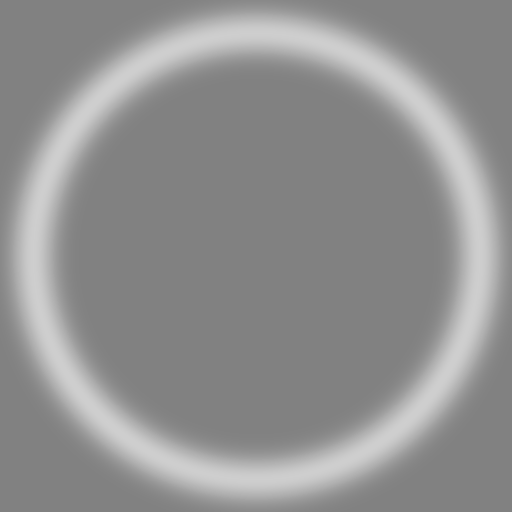
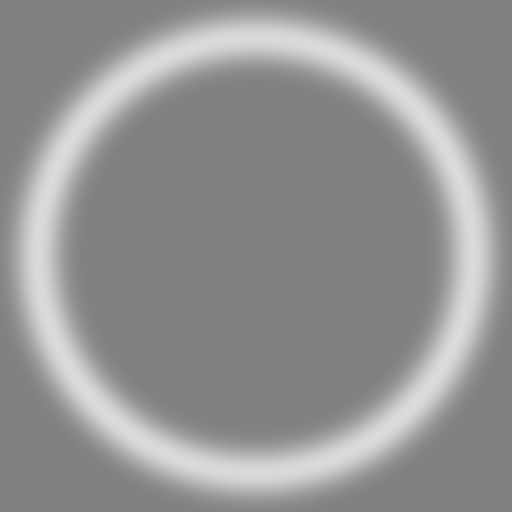
Улучшение волн + подключение ПО NeuroPlay

Changed region(s): [[0.0938, 0.0938, 0.9375, 0.9375]]

diff --git a/js/lib/neuroplay-1.0.0.js b/js/lib/neuroplay-1.0.0.js
@@ -1,0 +1,155 @@
+function cons(line) {
+  //console.log(line)
+}
+
+
+const Meditation = 0;
+const MeditationHistory = 1;
+const Concentration = 2;
+const ConcentrationHistory = 3;
+const BCI = 'bci';
+const Rhythms = 5;
+const RhythmsHistory = 6;
+const MentalState = 7;
+const MentalStateHistory = 8;
+const RecordMentalState = 9;
+const RemoveMentalStateRecord = 10;
+const StartMentalStates = 11;
+const StopMentalStates = 12;
+const StartDevice = 13;
+const StopDevice = 14;
+const ListDevices = 15;
+const DeviceCount = 16;
+const DeviceInfo = 17;
+const MakeFavorite = 18;
+const StartRecord = 'StartRecord';
+const StopRecord = 'StopRecord';
+const Help = 21;
+
+class NeuroplayConnector extends NotifyObject {
+  constructor() {
+    super();
+    this.socket = null;
+    this.timeout = null;
+    this.watcher = null;
+    this.lastmessagetime = 0;
+    this.canconnect = true;
+  }
+
+  connect() {
+    this.disconnect();
+
+    if (!this.canconnect) return;
+
+    cons("Connecting");
+
+    this.socket = new WebSocket("ws://localhost:1336");
+    var that = this;
+    this.socket.onopen = function (event) {
+      cons('Соединение установлено');
+      //that.send("Hi");
+      that.messageConnect(false);
+      //that.trigger('connected');
+      //that.trigger('connectedChanged', {connected: true});
+    }
+
+    this.socket.onclose = function (event) {
+      if (event.wasClean) {
+        cons('Соединение закрыто чисто');
+      } else {
+        cons('Обрыв соединения', "#C39"); // например, "убит" процесс сервера
+      }
+      cons('Код: ' + event.code + ' причина: ' + event.reason);
+
+    };
+
+    this.socket.onmessage = function (event) {
+      var s = JSON.parse(event.data);
+
+      that.lastmessagetime = new Date().getTime();
+
+      cons(s);
+
+      if (s.command == 'bci') {
+        that.trigger('bci', s);
+      }
+
+      if (s.command == "stoprecord") {
+        //console.log(s);
+        //console.log('message')
+        that.trigger('edfData', s);
+      }
+
+      if (s.command == "controloptions") {
+        that.trigger('controlOptions', s);
+      }
+    };
+
+    this.socket.onerror = function (error) {
+      cons("Ошибка", error);
+    };
+
+    this.watcher = setInterval(function () {
+      if (new Date().getTime() - that.lastmessagetime > 3000) {
+        that.messageConnect(false);
+        that.connect();
+      }
+
+    }, 5000);
+
+    this.timeout = setInterval(function () {
+      that.send(BCI);
+    }, 100);
+  }
+
+  standalone() {
+    this.canconnect = false;
+  }
+
+  messageBci(sample) {
+    this.trigger(BCI, sample);
+  }
+
+  sendRecordData(sample) {
+    this.trigger('edfData', sample);
+  }
+
+  controlOptions(sample) {
+    this.trigger('controlOptions', sample);
+  }
+
+  messageConnect(connected) {
+    this.trigger(connected ? 'connected' : 'disconnected');
+    this.trigger('connectedChanged', { connected: connected });
+  }
+
+  send(text) {
+    if (this.socket && this.socket.readyState == 1) {
+      this.socket.send(text);
+    }
+  }
+
+  start() {
+    this.send(StartRecord);
+  }
+
+  stop() {
+    this.send(StopRecord);
+    cons('Послали остановку')
+  }
+
+  controlOptions() {
+    this.send('controlOptions')
+  }
+
+  disconnect() {
+    clearInterval(this.watcher);
+    clearInterval(this.timeout);
+
+    if (this.socket) {
+      this.socket.close();
+      this.socket = null;
+    }
+  }
+
+}

diff --git a/js/Wave.js b/js/Wave.js
@@ -3,19 +3,21 @@ class Wave
     constructor(game_pointer)
     {
         this.p_game = game_pointer; // указатель на главный класс
-
+        
+        // поле для отрисовки белого круга
         this.graphics = new PIXI.Graphics();
         this.p_game.wavesSprite.addChild(this.graphics);
 
+        // спрайт с displacement map
         this.displacementSprite = new PIXI.Sprite(this.p_game.waveDisplacementTexture);
         this.displacementSprite.anchor.set(0.5);
-        this.displacementSprite.scale.set(0);
+        this.displacementSprite.scale.set(0.1);
         this.displacementSprite.x = g_game.screenMetrics.center.x;
         this.displacementSprite.y = g_game.screenMetrics.center.y;
 
-        this.p_game.wavesSprite.addChild(this.displacementSprite);
+        this.p_game.app.stage.addChild(this.displacementSprite);
 
-        this.displacementFilter = new PIXI.filters.DisplacementFilter(this.displacementSprite);
+        this.displacementFilter = new PIXI.filters.DisplacementFilter(this.displacementSprite, 20);
         this.p_game.backgroundSprite.filters.push(this.displacementFilter);
 
         this.currentRadius = 10;
@@ -24,22 +26,26 @@ class Wave
 
     update(delta)
     {
-        this.currentRadius += 10 * delta;
-        this.currentWidth += 1 * delta;
+        this.currentRadius += 5 * delta;
+        this.currentWidth += 0.37 * delta;
 
-        this.displacementSprite.scale.x += 0.1 * delta;
-        this.displacementSprite.scale.y += 0.1 * delta;
+        this.displacementSprite.scale.x += 0.023 * delta;
+        this.displacementSprite.scale.y += 0.023 * delta;
 
-        // если волна вышла за пределы экрана
+        // Если волна вышла за пределы экрана,
+        // удаляем её и всё, что для неё создали.
         if (this.currentRadius > this.p_game.screenMetrics.maxWaveRadius)
         {
-            this.p_game.backgroundSprite.filters.splice(2);
+            let index = this.p_game.backgroundSprite.filters.indexOf(this.displacementFilter);
+            this.p_game.backgroundSprite.filters.splice(index, 1);
+            this.p_game.app.stage.removeChild(this.displacementSprite);
             this.p_game.wavesSprite.removeChild(this.graphics);
             this.p_game.wavesArray.shift()
         }
 
+        // Отрисовка белого круга
         this.graphics.clear();
-        this.graphics.lineStyle(this.currentWidth, 0xFFFFFF, 0.5);
+        this.graphics.lineStyle(this.currentWidth, 0xFFFFFF, 0.2);
         this.graphics.drawCircle(this.p_game.screenMetrics.center.x, this.p_game.screenMetrics.center.y, this.currentRadius);
     }
 

diff --git a/js/Game.js b/js/Game.js
@@ -2,6 +2,11 @@ class Game
 {
     constructor()
     {
+        //Подключение к ПО NeuroPlay
+        this.neuroplay = new NeuroplayConnector();
+        this.neuroplay.connect();
+        this.neuroplay.on('bci', this.handleInput);
+
         this.app = new PIXI.Application({
             view: document.getElementById("game-canvas"),
             resizeTo: window, // привязка размера canvas к размеру окна
@@ -13,6 +18,7 @@ class Game
         this.app.stage.addChild(this.backgroundSprite);
 
         this.waveDisplacementTexture = new PIXI.Texture.from('img/wave_displacement_map.png');
+        this.baseDisplacementTexture = new PIXI.Texture.from('img/base_displacement_map.png');
         this.wavesArray = [];
 
         this.wavesSprite = new PIXI.Sprite(); // displacement map волн
@@ -22,12 +28,12 @@ class Game
         this.app.stage.addChild(this.wavesSprite);
 
         // эффект искажения для воды
-        this.displacementSprite1 = new PIXI.Sprite.from('img/base_displacement_map.png');
+        this.displacementSprite1 = new PIXI.Sprite(this.baseDisplacementTexture);
         this.displacementSprite1.texture.baseTexture.wrapMode = PIXI.WRAP_MODES.REPEAT;
         this.displacementFilter1 = new PIXI.filters.DisplacementFilter(this.displacementSprite1);
         this.app.stage.addChild(this.displacementSprite1);
 
-        this.displacementSprite2 = new PIXI.Sprite.from('img/base_displacement_map.png');
+        this.displacementSprite2 = new PIXI.Sprite(this.baseDisplacementTexture);
         this.displacementSprite2.texture.baseTexture.wrapMode = PIXI.WRAP_MODES.REPEAT;
         this.displacementFilter2 = new PIXI.filters.DisplacementFilter(this.displacementSprite2);
         this.app.stage.addChild(this.displacementSprite2);
@@ -54,12 +60,19 @@ class Game
         this.screenMetrics.dimensions.y = height;
         this.screenMetrics.center.x = width / 2;
         this.screenMetrics.center.y = height / 2;
-        this.screenMetrics.maxWaveRadius = Math.sqrt(Math.pow(width / 2, 2) + Math.pow(height / 2, 2));
+        this.screenMetrics.maxWaveRadius = 1.2 * Math.sqrt(Math.pow(width / 2, 2) + Math.pow(height / 2, 2));
         
         //изменение размера фона
         this.backgroundSprite.width = width;
         this.backgroundSprite.height = height;
 
+    }
+
+    //Обработка данных с нейроинтерфейса
+    //вызывается 10 раз в секунду
+    handleInput(data)
+    {
+        console.log(data.concentration);
     }
 
     gameLoop(delta)

diff --git a/js/lib/notifyObject-1.0.0.js b/js/lib/notifyObject-1.0.0.js
@@ -1,0 +1,34 @@
+class NotifyObject {
+  constructor() {
+    this.listeners = Object();
+  }
+
+  on(evt, callback) {
+    //console.log("Listener added: " + evt);
+    if (!this.listeners.hasOwnProperty(evt)) {
+      this.listeners[evt] = Array();
+    }
+    this.listeners[evt].push(callback);
+  }
+
+  internalTriggerProcess(evt, params) {
+    //Please override this function for custom processing;
+  }
+
+  trigger(evt, params) {
+    //console.log("trigger called " + evt);
+    //console.dir(listeners);
+
+    if (evt in this.listeners) {
+      var callbacks = this.listeners[evt];
+      //Call all callbacks with the params
+      for (var x in callbacks) {
+        callbacks[x](params);
+      }
+    } else {
+      //console.log("No listeners found for " + evt);
+    }
+
+    this.internalTriggerProcess(evt, params);
+  }
+}

diff --git a/index.html b/index.html
@@ -2,7 +2,9 @@
 <html>
     <head>
         <title>Game</title>
-        <script src="js/lib/pixi.js" type="text/javascript"></script>
+        <script src="js/lib/pixi.js"></script>
+        <script src="js/lib/notifyObject-1.0.0.js"></script>
+        <script src="js/lib/neuroplay-1.0.0.js"></script>
         <script src="js/main.js"></script>
         <script src="js/Game.js"></script>
         <script src="js/Wave.js"></script>
